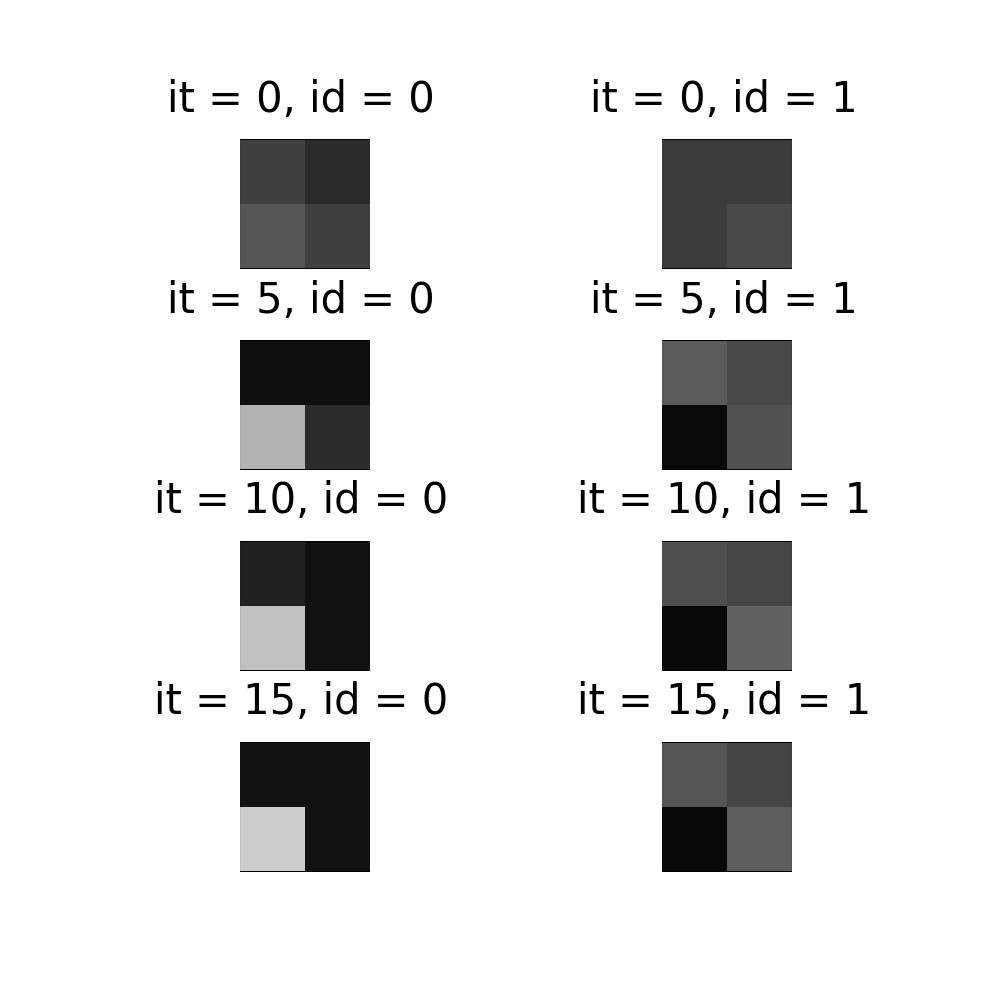
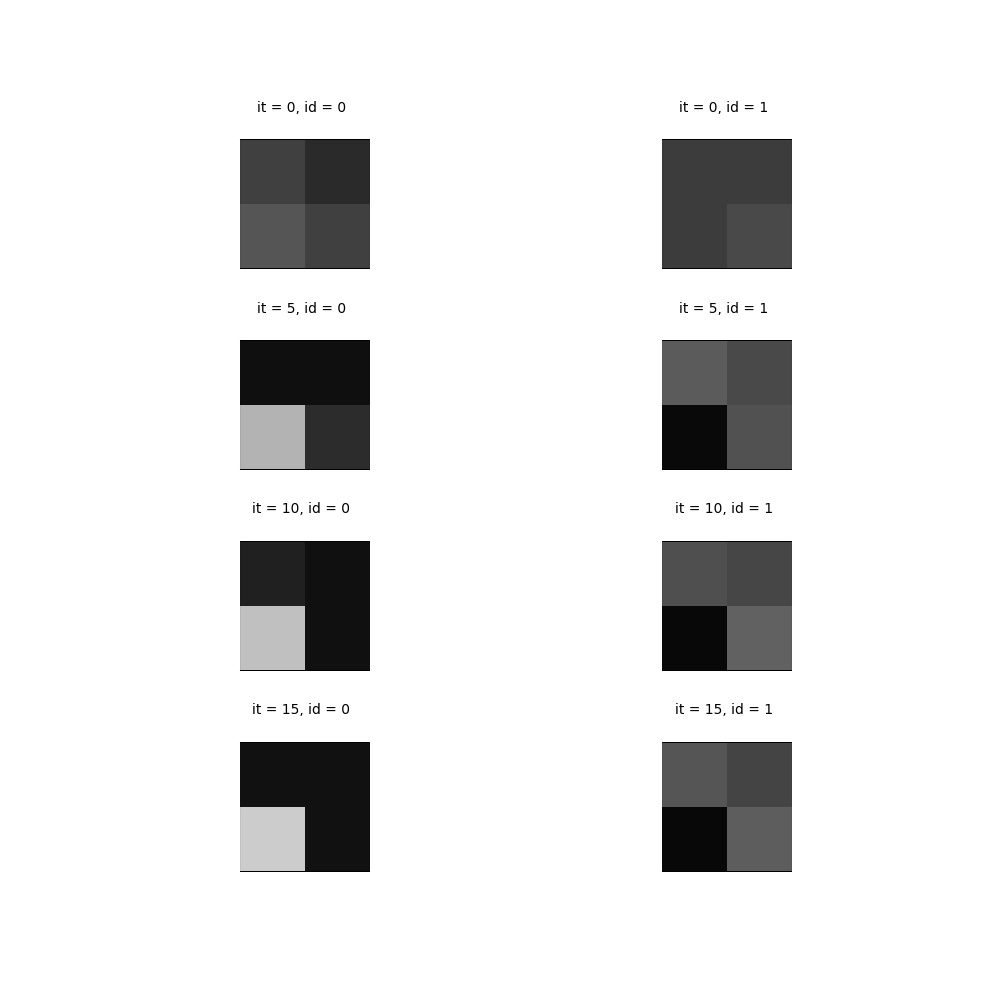
images

diff --git a/main.py b/main.py
@@ -33,7 +33,7 @@ def plot_convergence(n_topics):
             image_file_path = 'images/' + 'image_iter_' + str(5 * i) + '_id_' + str(t_id) + '.jpg'
             img = cv2.imread(image_file_path)
             ax = fig.add_subplot(int(number_of_images/n_topics), n_topics, n_topics * i + 1 + t_id)
-            ax.set_title("it = {}, id = {}".format(5 * i, t_id), fontsize=30)
+            ax.set_title("it = {}, id = {}".format(5 * i, t_id), fontsize=10)
             ax.grid(False)
             ax.spines['right'].set_visible(False)
             ax.spines['top'].set_visible(False)
